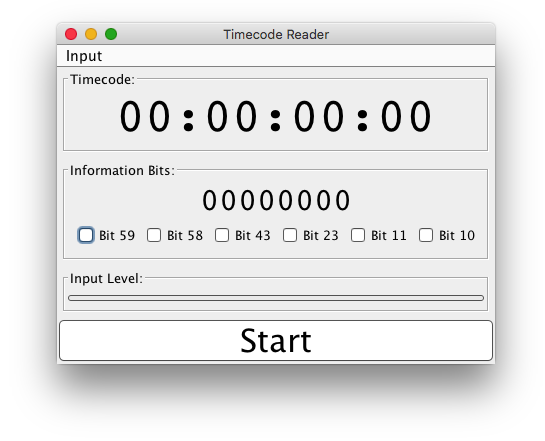
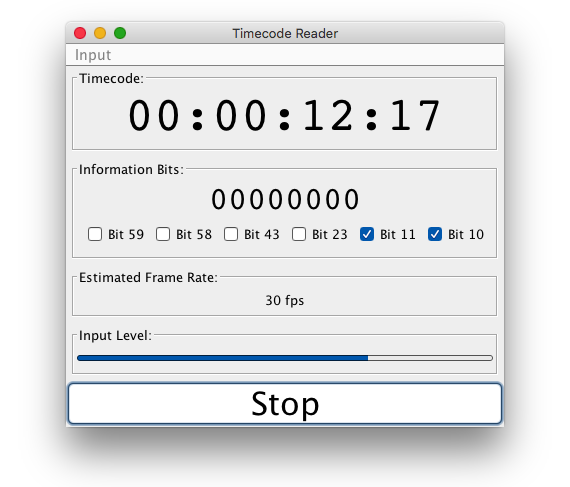
Add estimate of frame rate

Changed region(s): [[0.0936, 0.0295, 0.9358, 0.9728]]

diff --git a/src/TimecodeReader.java b/src/TimecodeReader.java
@@ -21,7 +21,7 @@ public class TimecodeReader extends JFrame implements Runnable {
     private static final int      SYNC = 0xBFFC;
     private JLabel                timeView;
     private JCheckBox             user59, user58, user27, user43, user11, user10;
-    private JLabel                userData;
+    private JLabel                userData, frameRate;
     private JProgressBar          levelMeter;
     private PipedInputStream      pipeIn;
     private PipedOutputStream     pipeOut;
@@ -42,20 +42,17 @@ public class TimecodeReader extends JFrame implements Runnable {
     private int                   frameWord = 0;
     private int                   lastSample;
     private int                   interval;
+    private int                   lastSecond;
+    private int                   frameCount;
 
     private TimeCode () {
       setLayout(new BorderLayout());
-      // Creat Timecode subpanel
-      JPanel timePanel = new JPanel();
-      Border gap = BorderFactory.createEmptyBorder(4, 4, 4, 4);
-      timePanel.setBorder(BorderFactory.createCompoundBorder(gap,
-                          BorderFactory.createTitledBorder("Timecode:")));
-      timePanel.add(timeView = new JLabel());
-      add(timePanel, BorderLayout.NORTH);
+      // Create Timecode Panel
+      add(getTitledPanel("Timecode:", timeView = new JLabel()), BorderLayout.NORTH);
+      timeView.setFont(new Font("Courier", Font.PLAIN, 48));
+      timeView.setVerticalAlignment(SwingConstants.CENTER);
+      timeView.setHorizontalAlignment(SwingConstants.CENTER);
       // Creatae User Bits subpanel
-      JPanel bitsPanel = new JPanel();
-      bitsPanel.setBorder(BorderFactory.createCompoundBorder(gap,
-                          BorderFactory.createTitledBorder("Information Bits:")));
       JPanel indicators = new JPanel(new GridLayout(2, 1));
       JPanel userBits = new JPanel(new GridLayout(1, 6));
       userBits.add(user59 = new JCheckBox("Bit 59"));
@@ -67,20 +64,26 @@ public class TimecodeReader extends JFrame implements Runnable {
       indicators.add(userData = new JLabel("- - - -", SwingConstants.CENTER));
       userData.setFont(new Font("Courier", Font.PLAIN, 32));
       indicators.add(userBits);
-      bitsPanel.add(indicators);
-      add(bitsPanel, BorderLayout.CENTER);
-      // Add level Meter using ProgressBar
-      JPanel meterPanel = new JPanel(new BorderLayout());
-      meterPanel.setBorder(BorderFactory.createCompoundBorder(gap,
-                           BorderFactory.createTitledBorder("Input Level:")));
-      levelMeter = new JProgressBar(0, 100);
+      add(getTitledPanel("Information Bits:", indicators), BorderLayout.CENTER);
+      JPanel southSet = new JPanel(new GridLayout(2, 1));
+      // Create Input Level Panel
+      JPanel meterPanel = getTitledPanel("Input Level:", levelMeter = new JProgressBar(0, 100));
+      meterPanel.setLayout(new BorderLayout());
       levelMeter.setValue(0);
       meterPanel.add(levelMeter, BorderLayout.CENTER);
-      add(meterPanel, BorderLayout.SOUTH);
-      timeView.setFont(new Font("Courier", Font.PLAIN, 48));
-      timeView.setVerticalAlignment(SwingConstants.CENTER);
-      timeView.setHorizontalAlignment(SwingConstants.CENTER);
+      southSet.add(getTitledPanel("Estimated Frame Rate:", frameRate = new JLabel("--")));
+      southSet.add(meterPanel);
+      add(southSet, BorderLayout.SOUTH);
       decodeFrame(new int[4]);
+    }
+
+    private JPanel getTitledPanel (String title, JComponent comp) {
+      JPanel frame = new JPanel();
+      Border gap = BorderFactory.createEmptyBorder(4, 4, 4, 4);
+      frame.setBorder(BorderFactory.createCompoundBorder(gap,
+                      BorderFactory.createTitledBorder(title)));
+      frame.add(comp);
+      return frame;
     }
 
     private void setFormat (AudioFormat format) {
@@ -276,6 +279,13 @@ public class TimecodeReader extends JFrame implements Runnable {
               Integer.toHexString((frame[0] >> 12) & 0x0F) +
               Integer.toHexString((frame[0] >> 4) & 0x0F);
       userData.setText(userFields);
+      // Update Frame Rate Calculation
+      if (secUnits != lastSecond) {
+        lastSecond = secUnits;
+        frameRate.setText((frameCount + 1) + " fps");
+        frameCount = 0;
+      }
+      frameCount = Math.max(frameCount, frmUnits + frmTens * 10);
       // Format timecode as ASCII String
       String buf =
           Integer.toString(hrsTens) +
